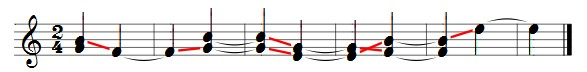
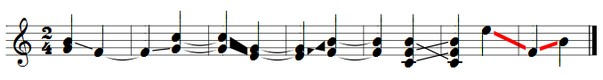
documentation on glissando and trill

diff --git a/doc/html/GUIDO_Additional_Specifications_1.5.1.html b/doc/html/GUIDO_Additional_Specifications_1.5.1.html
@@ -143,6 +143,32 @@
 							</li>
 						
 							<li>
+								<b><i>fill</i></b> - possibility of filling the space between glissandi (for chords or clusters)
+								<br>
+						
+								<ul>
+									<br>
+									<li>
+										<i>standard values:</i>
+						
+										<ul>
+											<li>
+												true
+											</li>
+											<li>
+												false
+											</li>
+										</ul>
+									</li>
+							
+									<li>
+										<i>default value:</i> false
+									</li>
+									<br>
+								</ul>
+							</li>
+
+							<li>
 								<b><i>thickness</i></b> - graphic thickness of glissando indication
 								<br>
 						
@@ -228,7 +254,7 @@
 				<center> <IMG SRC="imgs/glissandoNoteFormat.jpg"> </center>
 				<pre>[\glissando(e g# d& b& c# b c)]</pre>
 				<center> <IMG SRC="imgs/glissandoAccidentals.jpg"> </center>
-				<pre>[\meter<"2/4"> \glissando&lt;thickness=1, color = "red"&gt;({b, g} f/2 {g, c2} {e1, g} {b, f} e2 f1/4 b)]</pre>
+				<pre>[\meter<"2/4"> \glissando&lt;fill="true"&gt({b, g} f/2 {g, c2} {e1, g} {b, f}) \glissando({c/4, f, b} {f, b, c}) \glissando&lt;thickness=1, color = "red"&gt(e2 f1 b)]</pre>
 				<center> <IMG SRC="imgs/glissandoChords.jpg"> </center>
 			</p>
 			

diff --git a/src/graphic/GRGlissando.cpp b/src/graphic/GRGlissando.cpp
@@ -303,7 +303,6 @@ void GRGlissando::updateGlissando( GRStaff * inStaff )
 		dFirstLeftx = fglissContext.firstLeftHead->getBoundingBox().Width()*3/4*fglissContext.sizeLeft;
 	}
 
-
 	if(fill && fglissContext.secondLeftHead && fglissContext.secondRightHead)
 	{
 		// now we are in the case of the "fill" option, and we have two glissandi in parallel (chords or clusters)
@@ -312,10 +311,10 @@ void GRGlissando::updateGlissando( GRStaff * inStaff )
 		YRight2 = fglissContext.secondRightHead->getPosition().y + fglissContext.rightNoteDY;
 
 		// we add all the variables
-		fglissInfos->points[0].y = YLeft - dy1 -1;
-		fglissInfos->points[1].y = YLeft2 - dy1 +1;
-		fglissInfos->points[3].y = YRight - dy2 -1;
-		fglissInfos->points[2].y = YRight2 - dy2 +1;
+		fglissInfos->points[0].y = YLeft - dy1;
+		fglissInfos->points[1].y = YLeft2 - dy1;
+		fglissInfos->points[3].y = YRight - dy2;
+		fglissInfos->points[2].y = YRight2 - dy2;
 		fglissInfos->points[0].x = fglissInfos->points[1].x = XLeft + dx1 + dFirstLeftx;
 		fglissInfos->points[3].x = fglissInfos->points[2].x = XRight + dx2 - dFirstRightx - acc;
 		fglissInfos->position = fglissInfos->points[0];
@@ -470,6 +469,7 @@ void GRGlissando::compareAccidentals(GRSystemStartEndStruct * sse, bool * isUp, 
 		}
 	}
 }
+
 
 void GRGlissando::removeAssociation(GRNotationElement * el )
 {
